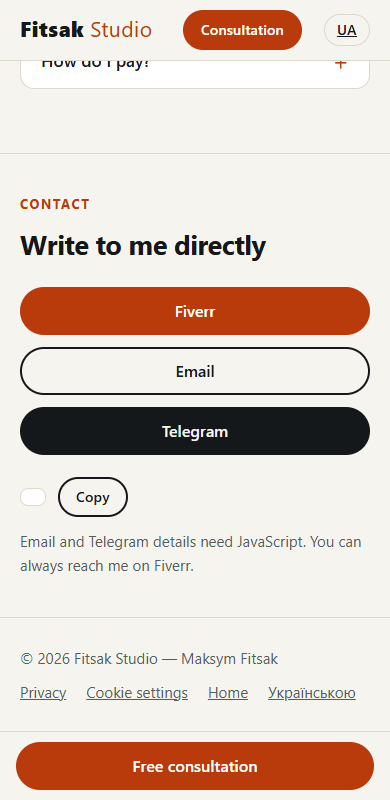
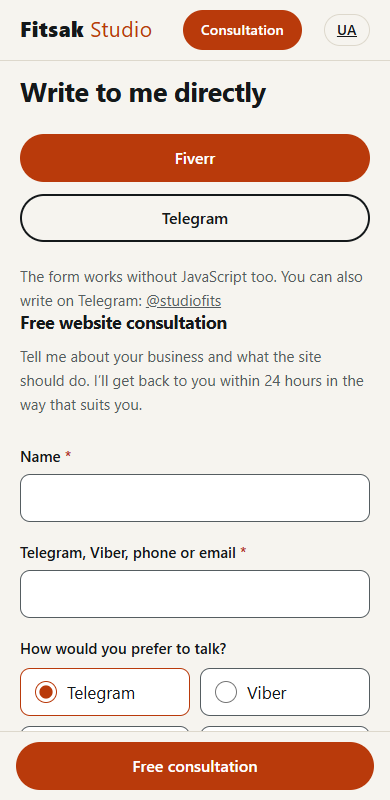
/sites/: working no-JS path (form in <noscript>, static Telegram link)
Without JavaScript the consultation dialog cannot open, so #contact-fallback now holds a native copy of the consultation form inside <noscript> (ids n-*, same hidden Web3Forms fields, native validation). Telegram button has a static t.me href; email controls are hidden without JS (.js-only via <noscript><style>). The unreachable <noscript> note above the dialog form is removed. AGENTS.md documents it.

diff --git a/ua/sites/index.html b/ua/sites/index.html
@@ -86,6 +86,7 @@
   ]
 }
 </script>
+<noscript><style>.js-only{display:none}</style></noscript>
 </head>
 <body>
 <a class="skip" href="#main">Перейти до змісту</a>
@@ -270,14 +271,84 @@
       <h2 class="h2">Напишіть мені напряму</h2>
       <div class="contact__buttons">
         <a class="btn btn--primary" href="https://www.fiverr.com/maxf_itsak" target="_blank" rel="noopener" data-fiverr-link data-contact="fiverr">Fiverr</a>
-        <a class="btn" href="#contact-fallback" data-email-link data-contact="email">Email</a>
-        <a class="btn" href="#contact-fallback" target="_blank" rel="noopener" data-telegram-link data-contact="telegram">Telegram</a>
+        <a class="btn js-only" href="#contact-fallback" data-email-link data-contact="email">Email</a>
+        <a class="btn" href="https://t.me/studiofits" target="_blank" rel="noopener" data-telegram-link data-contact="telegram">Telegram</a>
       </div>
-      <div class="email-row">
+      <div class="email-row js-only">
         <code data-email-text></code>
         <button type="button" class="btn btn--small" data-copy-email data-done="Скопійовано">Копіювати</button>
       </div>
-      <noscript><p class="noscript">Email і Telegram потребують JavaScript. Мене завжди можна знайти на Fiverr.</p></noscript>
+      <noscript>
+        <p class="noscript">Форма працює і без JavaScript. Також можна написати в Telegram: <a href="https://t.me/studiofits" target="_blank" rel="noopener">@studiofits</a></p>
+        <h3 class="case__h nojs-title">Безкоштовна консультація щодо сайту</h3>
+        <p class="noscript">Напишіть, що за бізнес і що має робити сайт. Зв’яжуся протягом 24 годин у зручний вам спосіб.</p>
+            <form class="form" method="post" action="https://api.web3forms.com/submit" accept-charset="UTF-8">
+      <input type="hidden" name="access_key" value="07adbbb3-1f83-4a28-a5b3-984ccc03d5ba">
+      <input type="hidden" name="subject" value="Fitsak: консультація (no-JS)">
+      <input type="hidden" name="from_name" value="fitsak.com">
+      <input type="hidden" name="redirect" value="https://fitsak.com/ua/sites/?sent=1">
+        <div class="field">
+          <label for="n-name">Ім’я <span class="req" aria-hidden="true">*</span></label>
+          <input id="n-name" name="name" type="text" required autocomplete="name" aria-describedby="n-name-err">
+          <p class="field__error" id="n-name-err" hidden></p>
+        </div>
+        <div class="field">
+          <label for="n-contact">Telegram, Viber, телефон або email <span class="req" aria-hidden="true">*</span></label>
+          <input id="n-contact" name="contact" type="text" required autocapitalize="none" spellcheck="false" aria-describedby="n-contact-err">
+          <p class="field__error" id="n-contact-err" hidden></p>
+        </div>
+        <fieldset class="choice">
+          <legend>Як зручніше поговорити?</legend>
+          <div class="choice__row">
+            <label class="choice__opt"><input type="radio" name="preferred" value="telegram" checked><span>Telegram</span></label>
+            <label class="choice__opt"><input type="radio" name="preferred" value="viber"><span>Viber</span></label>
+            <label class="choice__opt"><input type="radio" name="preferred" value="call"><span>Дзвінок</span></label>
+            <label class="choice__opt"><input type="radio" name="preferred" value="email"><span>Email</span></label>
+          </div>
+        </fieldset>
+        <div class="field">
+          <label for="n-business">Чим займається ваш бізнес?</label>
+          <input id="n-business" name="business" type="text" maxlength="200" aria-describedby="n-business-err">
+          <p class="field__error" id="n-business-err" hidden></p>
+        </div>
+        <div class="field">
+          <label for="n-website">Поточний сайт (якщо є)</label>
+          <input id="n-website" name="website" type="text" inputmode="url" autocomplete="url" autocapitalize="none" spellcheck="false" aria-describedby="n-website-err">
+          <p class="field__error" id="n-website-err" hidden></p>
+        </div>
+        <div class="field">
+          <label for="n-message">Що має робити новий сайт?</label>
+          <textarea id="n-message" name="message" rows="4" maxlength="1000" aria-describedby="n-message-err"></textarea>
+          <p class="field__error" id="n-message-err" hidden></p>
+        </div>
+        <div class="field">
+          <label for="n-package">Пакет</label>
+          <select id="n-package" name="package" aria-describedby="n-package-err">
+            <option value="consult" selected>Безкоштовна консультація</option>
+            <option value="landing">Лендинг</option>
+            <option value="site">Сайт 5–10 сторінок</option>
+            <option value="support">Підтримка</option>
+            <option value="audit">Безкоштовний аудит</option>
+            <option value="deep_audit">Глибокий аудит Google Ads + GA4 (PDF)</option>
+            <option value="analytics">Аналітика під ключ</option>
+            <option value="repair">Ремонт сайту</option>
+            <option value="ads">Ведення Google Ads</option>
+          </select>
+          <p class="field__error" id="n-package-err" hidden></p>
+        </div>
+        <div class="field field--check">
+          <label class="check" for="n-consent">
+            <input id="n-consent" name="consent" type="checkbox" required aria-describedby="n-consent-err">
+            <span>Погоджуюсь на <a href="../privacy/" target="_blank" rel="noopener">обробку даних</a> для відповіді на заявку <span class="req" aria-hidden="true">*</span></span>
+          </label>
+          <p class="field__error" id="n-consent-err" hidden></p>
+        </div>
+        <input type="checkbox" name="botcheck" hidden tabindex="-1" autocomplete="off">
+        <div class="form-error" role="alert"></div>
+        <button class="btn btn--primary" type="submit">Записатися на консультацію</button>
+      </form>
+
+      </noscript>
     </div>
   </section>
 
@@ -312,8 +383,7 @@
       <button type="button" class="dialog__close" data-dialog-close aria-label="Закрити"><span aria-hidden="true">×</span></button>
     </div>
     <p class="dialog__lead">Напишіть, що за бізнес і що має робити сайт. Зв’яжуся протягом 24 годин у зручний вам спосіб.</p>
-    <noscript><p class="noscript">Форма працює і без JavaScript. Також можна написати в Telegram: <a href="https://t.me/studiofits" target="_blank" rel="noopener">@studiofits</a></p></noscript>
-    <form class="form" id="consult-form" data-form-type="consult" data-subject="консультація" method="post" action="https://api.web3forms.com/submit" accept-charset="UTF-8">
+        <form class="form" id="consult-form" data-form-type="consult" data-subject="консультація" method="post" action="https://api.web3forms.com/submit" accept-charset="UTF-8">
       <input type="hidden" name="access_key" value="07adbbb3-1f83-4a28-a5b3-984ccc03d5ba">
       <input type="hidden" name="subject" value="Fitsak: консультація (no-JS)">
       <input type="hidden" name="from_name" value="fitsak.com">
@@ -378,6 +448,7 @@
         <div class="form-error" role="alert"></div>
         <div class="form__submit"><button class="btn btn--primary" type="submit">Записатися на консультацію</button></div>
       </form>
+
     <div class="form-success" role="status" aria-live="polite">
       <p class="form-success__text"></p>
       <button type="button" class="btn" data-dialog-close>Закрити</button>

diff --git a/sites/index.html b/sites/index.html
@@ -86,6 +86,7 @@
   ]
 }
 </script>
+<noscript><style>.js-only{display:none}</style></noscript>
 </head>
 <body>
 <a class="skip" href="#main">Skip to content</a>
@@ -270,14 +271,84 @@
       <h2 class="h2">Write to me directly</h2>
       <div class="contact__buttons">
         <a class="btn btn--primary" href="https://www.fiverr.com/maxf_itsak" target="_blank" rel="noopener" data-fiverr-link data-contact="fiverr">Fiverr</a>
-        <a class="btn" href="#contact-fallback" data-email-link data-contact="email">Email</a>
-        <a class="btn" href="#contact-fallback" target="_blank" rel="noopener" data-telegram-link data-contact="telegram">Telegram</a>
+        <a class="btn js-only" href="#contact-fallback" data-email-link data-contact="email">Email</a>
+        <a class="btn" href="https://t.me/studiofits" target="_blank" rel="noopener" data-telegram-link data-contact="telegram">Telegram</a>
       </div>
-      <div class="email-row">
+      <div class="email-row js-only">
         <code data-email-text></code>
         <button type="button" class="btn btn--small" data-copy-email data-done="Copied">Copy</button>
       </div>
-      <noscript><p class="noscript">Email and Telegram details need JavaScript. You can always reach me on Fiverr.</p></noscript>
+      <noscript>
+        <p class="noscript">The form works without JavaScript too. You can also write on Telegram: <a href="https://t.me/studiofits" target="_blank" rel="noopener">@studiofits</a></p>
+        <h3 class="case__h nojs-title">Free website consultation</h3>
+        <p class="noscript">Tell me about your business and what the site should do. I’ll get back to you within 24 hours in the way that suits you.</p>
+            <form class="form" method="post" action="https://api.web3forms.com/submit" accept-charset="UTF-8">
+      <input type="hidden" name="access_key" value="07adbbb3-1f83-4a28-a5b3-984ccc03d5ba">
+      <input type="hidden" name="subject" value="Fitsak: консультація (no-JS)">
+      <input type="hidden" name="from_name" value="fitsak.com">
+      <input type="hidden" name="redirect" value="https://fitsak.com/sites/?sent=1">
+        <div class="field">
+          <label for="n-name">Name <span class="req" aria-hidden="true">*</span></label>
+          <input id="n-name" name="name" type="text" required autocomplete="name" aria-describedby="n-name-err">
+          <p class="field__error" id="n-name-err" hidden></p>
+        </div>
+        <div class="field">
+          <label for="n-contact">Telegram, Viber, phone or email <span class="req" aria-hidden="true">*</span></label>
+          <input id="n-contact" name="contact" type="text" required autocapitalize="none" spellcheck="false" aria-describedby="n-contact-err">
+          <p class="field__error" id="n-contact-err" hidden></p>
+        </div>
+        <fieldset class="choice">
+          <legend>How would you prefer to talk?</legend>
+          <div class="choice__row">
+            <label class="choice__opt"><input type="radio" name="preferred" value="telegram" checked><span>Telegram</span></label>
+            <label class="choice__opt"><input type="radio" name="preferred" value="viber"><span>Viber</span></label>
+            <label class="choice__opt"><input type="radio" name="preferred" value="call"><span>Call</span></label>
+            <label class="choice__opt"><input type="radio" name="preferred" value="email"><span>Email</span></label>
+          </div>
+        </fieldset>
+        <div class="field">
+          <label for="n-business">What does your business do?</label>
+          <input id="n-business" name="business" type="text" maxlength="200" aria-describedby="n-business-err">
+          <p class="field__error" id="n-business-err" hidden></p>
+        </div>
+        <div class="field">
+          <label for="n-website">Current website (if any)</label>
+          <input id="n-website" name="website" type="text" inputmode="url" autocomplete="url" autocapitalize="none" spellcheck="false" aria-describedby="n-website-err">
+          <p class="field__error" id="n-website-err" hidden></p>
+        </div>
+        <div class="field">
+          <label for="n-message">What should the new site do?</label>
+          <textarea id="n-message" name="message" rows="4" maxlength="1000" aria-describedby="n-message-err"></textarea>
+          <p class="field__error" id="n-message-err" hidden></p>
+        </div>
+        <div class="field">
+          <label for="n-package">Package</label>
+          <select id="n-package" name="package" aria-describedby="n-package-err">
+            <option value="consult" selected>Free consultation</option>
+            <option value="landing">Landing page</option>
+            <option value="site">Website, 5–10 pages</option>
+            <option value="support">Support</option>
+            <option value="audit">Free audit</option>
+            <option value="deep_audit">Deep Google Ads + GA4 audit (PDF)</option>
+            <option value="analytics">Turnkey analytics</option>
+            <option value="repair">Site repair</option>
+            <option value="ads">Google Ads management</option>
+          </select>
+          <p class="field__error" id="n-package-err" hidden></p>
+        </div>
+        <div class="field field--check">
+          <label class="check" for="n-consent">
+            <input id="n-consent" name="consent" type="checkbox" required aria-describedby="n-consent-err">
+            <span>I agree to the <a href="../privacy/" target="_blank" rel="noopener">processing of my data</a> to reply to my request <span class="req" aria-hidden="true">*</span></span>
+          </label>
+          <p class="field__error" id="n-consent-err" hidden></p>
+        </div>
+        <input type="checkbox" name="botcheck" hidden tabindex="-1" autocomplete="off">
+        <div class="form-error" role="alert"></div>
+        <button class="btn btn--primary" type="submit">Book a free consultation</button>
+      </form>
+
+      </noscript>
     </div>
   </section>
 
@@ -312,8 +383,7 @@
       <button type="button" class="dialog__close" data-dialog-close aria-label="Close"><span aria-hidden="true">×</span></button>
     </div>
     <p class="dialog__lead">Tell me about your business and what the site should do. I’ll get back to you within 24 hours in the way that suits you.</p>
-    <noscript><p class="noscript">The form works without JavaScript too. You can also write on Telegram: <a href="https://t.me/studiofits" target="_blank" rel="noopener">@studiofits</a></p></noscript>
-    <form class="form" id="consult-form" data-form-type="consult" data-subject="консультація" method="post" action="https://api.web3forms.com/submit" accept-charset="UTF-8">
+        <form class="form" id="consult-form" data-form-type="consult" data-subject="консультація" method="post" action="https://api.web3forms.com/submit" accept-charset="UTF-8">
       <input type="hidden" name="access_key" value="07adbbb3-1f83-4a28-a5b3-984ccc03d5ba">
       <input type="hidden" name="subject" value="Fitsak: консультація (no-JS)">
       <input type="hidden" name="from_name" value="fitsak.com">
@@ -378,6 +448,7 @@
         <div class="form-error" role="alert"></div>
         <div class="form__submit"><button class="btn btn--primary" type="submit">Book a free consultation</button></div>
       </form>
+
     <div class="form-success" role="status" aria-live="polite">
       <p class="form-success__text"></p>
       <button type="button" class="btn" data-dialog-close>Close</button>

diff --git a/AGENTS.md b/AGENTS.md
@@ -49,6 +49,6 @@ Package buttons (`data-package` with an `href="#id"`) pick the package in the fo
 
 ### Forms without JavaScript
 
-Every `<form>` has `method="post"`, `action="https://api.web3forms.com/submit"`, `accept-charset="UTF-8"` and static hidden fields `access_key`, `subject` (ends with `(no-JS)`), `from_name`, `redirect` (`<base>/<this page>/?sent=1`), so a submit before or without `app.js` is delivered natively instead of going to the URL as a GET. `app.js` still calls `preventDefault()` and sends its own explicit JSON payload (hidden inputs are not read or validated). On `?sent=1` it hides the form, shows the success text without a request number (the consultation dialog opens with it) and removes `sent` from the URL; no `generate_lead` is sent for it. Checked on 2026-11-10: with the current Web3Forms plan the `redirect` field was ignored (the visitor lands on Web3Forms' own success page, `https://api.web3forms.com/submit/success`), so `?sent=1` only appears if that changes; the lead is still delivered and the URL carries no data. At the very start, before GA is initialised, `app.js` removes the whole query if it contains `name`, `contact`, `website`, `message` or `business`, so personal data never reaches `page_location`. Each form has a `<noscript>` note with the Telegram handle.
+Every `<form>` has `method="post"`, `action="https://api.web3forms.com/submit"`, `accept-charset="UTF-8"` and static hidden fields `access_key`, `subject` (ends with `(no-JS)`), `from_name`, `redirect` (`<base>/<this page>/?sent=1`), so a submit before or without `app.js` is delivered natively instead of going to the URL as a GET. `app.js` still calls `preventDefault()` and sends its own explicit JSON payload (hidden inputs are not read or validated). On `?sent=1` it hides the form, shows the success text without a request number (the consultation dialog opens with it) and removes `sent` from the URL; no `generate_lead` is sent for it. Checked on 2026-11-10: with the current Web3Forms plan the `redirect` field was ignored (the visitor lands on Web3Forms' own success page, `https://api.web3forms.com/submit/success`), so `?sent=1` only appears if that changes; the lead is still delivered and the URL carries no data. At the very start, before GA is initialised, `app.js` removes the whole query if it contains `name`, `contact`, `website`, `message` or `business`, so personal data never reaches `page_location`. Each form has a `<noscript>` note with the Telegram handle. On /sites/ and /ua/sites/ the consultation form lives in a `<dialog>` that cannot be opened without JS, so `#contact-fallback` also contains a second copy of it inside `<noscript>` (ids prefixed `n-`, same hidden fields, `required` for native validation); the page buttons jump there without JS. The Telegram button in `#contact-fallback` has a static `https://t.me/studiofits` href (JS sets the same value from `js/config.js`): if the handle changes, change it in `js/config.js`, the fallback link and the `<noscript>` notes of the pages together. Email controls carry `.js-only` and are hidden without JS (`<noscript><style>` in the head).
 
 When adding an event, add a row here in the same change.
